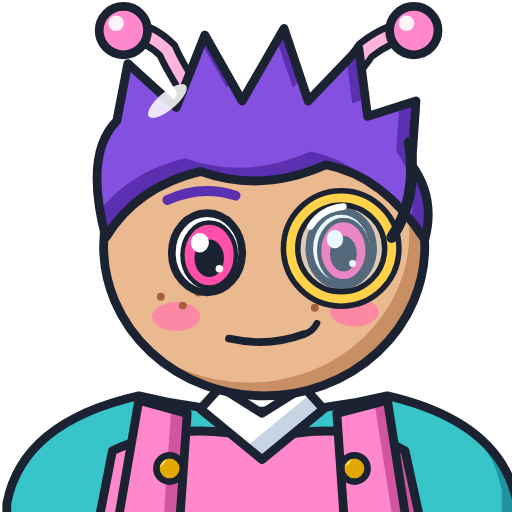
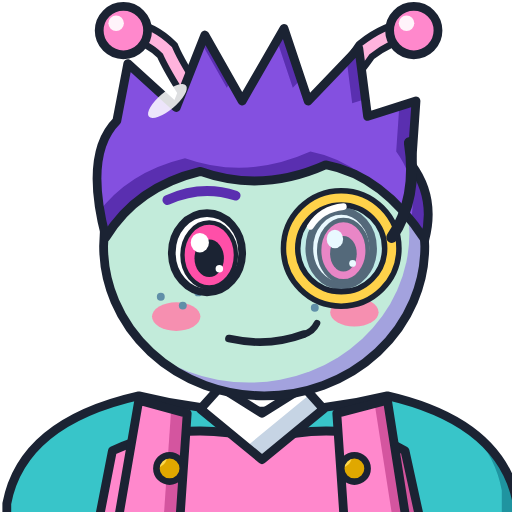
WP-F.13a: alien skin tones for Ade, Kit, Tomas; Tomas ear-fins; taller Ade stalks
Claude-Session: https://claude.ai/code/session_01MuvzFXwrcy8uJQi1j4MwiQ

Changed region(s): [[0.1875, 0.3125, 0.8438, 0.7812], [0.7188, 0.4375, 0.75, 0.5312], [0.7188, 0.375, 0.7812, 0.4375]]

diff --git a/scripts/art/crew/gen_crew_svgs.py b/scripts/art/crew/gen_crew_svgs.py
@@ -136,12 +136,12 @@ def rhee():
 
 
 def ade():
-    SK, SKS = "#E39A5E", "#BE7040"
+    SK, SKS = "#FF9A3C", "#F2A878"
     SF, SFS = "#88FFEE", "#4DD2C0"
     b = ""
     # ear stalks (wobbly)
-    b += stalk([(170, 130), (140, 114), (152, 92), (126, 80), (146, 56)], (146, 56), 20, "#E39A5E", "#F2B079")
-    b += stalk([(360, 126), (394, 110), (382, 90), (408, 78), (392, 56)], (392, 56), 20, "#E39A5E", "#F2B079")
+    b += stalk([(210, 130), (180, 112), (214, 96), (188, 80), (196, 64)], (196, 64), 19, "#FF9A3C", "#FFB866")
+    b += stalk([(322, 130), (352, 112), (318, 96), (344, 80), (336, 64)], (336, 64), 19, "#FF9A3C", "#FFB866")
     # jacket
     b += shape(P(SHOULDERS), SF, SFS, (110, 440, 24, 8, -20))
     b += f'<path d="M262 410 L262 512" stroke="{OUT}" stroke-width="7"/>'
@@ -175,7 +175,7 @@ def ade():
 
 
 def kit():
-    SK, SKS = "#EBB98F", "#C88E64"
+    SK, SKS = "#C2EBDA", "#A3A2DE"
     PK, PKS = "#FF88CC", "#D4559F"
     VI, VIS = "#8450E0", "#5A2FB0"
     b = ""
@@ -199,7 +199,7 @@ def kit():
     b += cheek(184, 308, "#FF7FA8", 22, 13) + cheek(346, 304, "#FF7FA8", 22, 13)
     # freckles
     for x, y in ((170, 290), (190, 298), (204, 286), (322, 286), (338, 296), (356, 284), (310, 300)):
-        b += f'<circle cx="{x}" cy="{y}" r="3.6" fill="#A8603A"/>'
+        b += f'<circle cx="{x}" cy="{y}" r="3.6" fill="#5F8FA8"/>'
     # eyes
     b += eye(212, 250, 32, 36, "#FF4FA8", (2, 2)) + eye(334, 246, 29, 34, "#FF4FA8", (2, 2))
     b += brow(176, 202, 238, 198, "#5A2FB0", 9)
@@ -255,7 +255,7 @@ def vanta():
 
 
 def tomas():
-    SK, SKS = "#F6CBA2", "#D3A07A"
+    SK, SKS = "#BDBAF4", "#938FD2"
     CO, COS = "#FF6B35", "#CC4412"
     HR, HRS = "#5A3C2E", "#3A2418"
     TL = "#2DD4BF"
@@ -271,14 +271,15 @@ def tomas():
     b += f'<path d="M300 442 L308 498" stroke="{OUT}" stroke-width="12" stroke-linecap="round"/>'
     b += f'<path d="M300 442 L308 498" stroke="#fff" stroke-width="5" stroke-linecap="round"/>'
     b += shape(C(224, 502, 8), "#fff", None, None, 5) + shape(C(308, 500, 8), "#fff", None, None, 5)
+    # rounded ear-fins
+    b += shape(P("M146 268 Q96 226 84 270 Q92 316 148 306 Z"), "#8F8CE8", "#6A67C2", (110, 266, 6, 14, 0))
+    b += shape(P("M392 262 Q440 222 452 264 Q444 308 394 300 Z"), "#8F8CE8", "#6A67C2", None)
     # small round head
     b += shape(E(268, 256, 128, 122), SK, SKS, (190, 190, 26, 10, -35))
     # hair: messy fringe
     b += shape(P("M140 250 Q128 128 262 124 Q396 126 394 250 Q372 196 338 178 Q326 214 292 176 Q262 212 236 176 Q206 214 190 184 Q154 202 140 250 Z"),
                HR, HRS, (200, 150, 28, 8, -25))
-    # teal cheek spots
-    for x, y in ((184, 340), (204, 350), (190, 358), (344, 338), (364, 346), (348, 356)):
-        b += f'<circle cx="{x}" cy="{y}" r="7" fill="{TL}" stroke="{OUT}" stroke-width="3"/>'
+    b += cheek(186, 330, "#FF8FB0", 26, 17) + cheek(350, 326, "#FF8FB0", 24, 16)
     # very big eyes
     b += eye(214, 262, 42, 48, "#2E7DD6", (3, 3)) + eye(328, 258, 38, 45, "#2E7DD6", (3, 3))
     b += brow(176, 202, 244, 196, HRS, 8) + brow(298, 194, 360, 200, HRS, 8)
